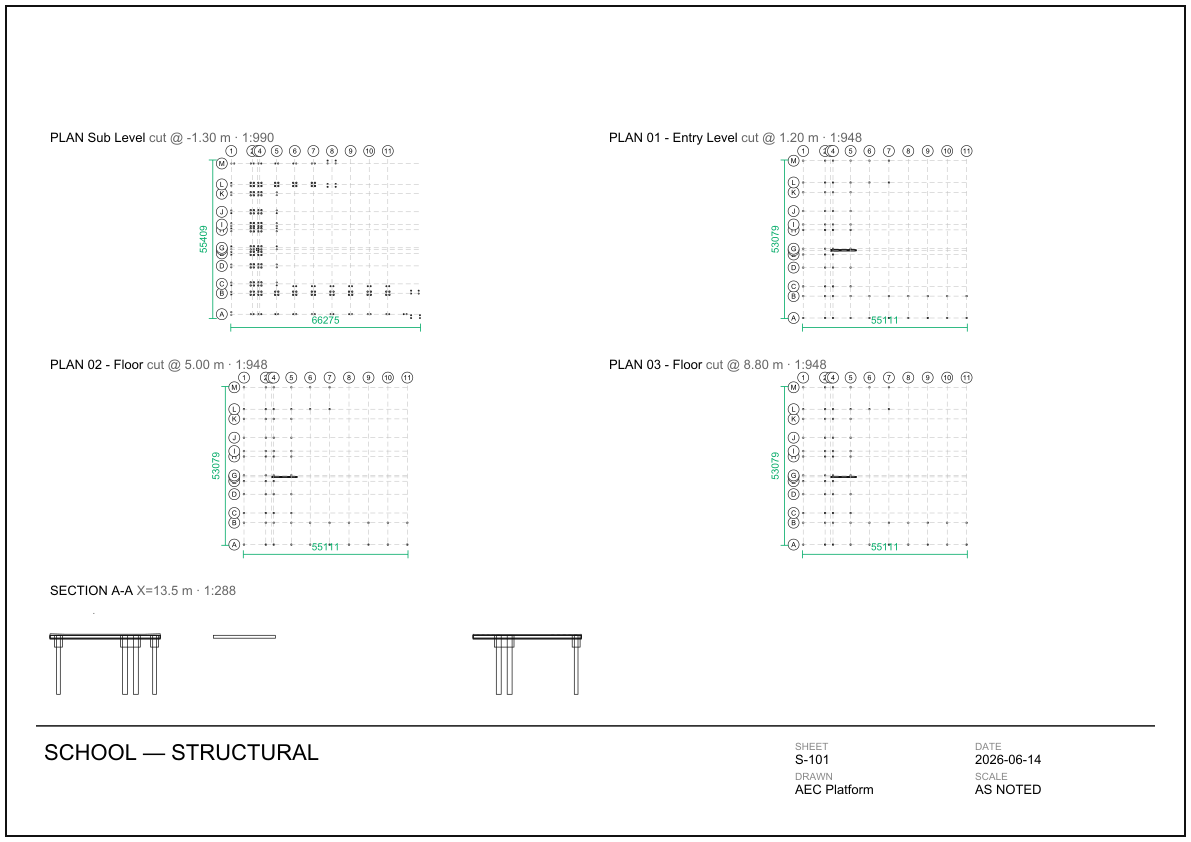
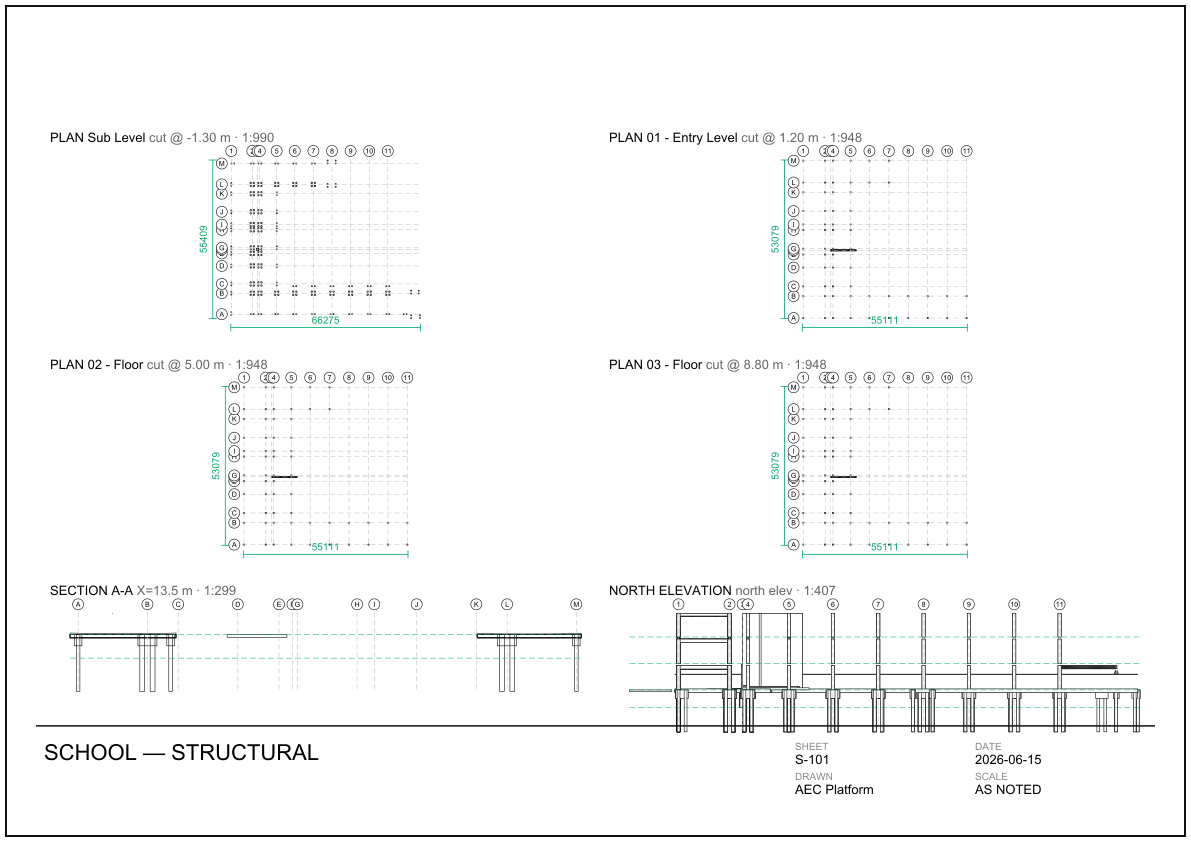
Annotate section & elevation sheet cells; elevations on composed sheet
- drawings.py: compose() now annotates every cell — plan cells get grid+dims,
  section/elevation cells get grid bubbles (lettered/numbered as appropriate) +
  storey level datums via _vertical_extras; elevation cells render filled (HLR).
  _view_for_spec supports kind="elevation"; default_sheet adds a north elevation;
  levels threaded into compose. SVG + PDF renderers handle filled polys + level lines.
- docs/img/sheet.png regenerated (fully-annotated A3); capability-matrix updated.

Verified: A3 sheet — 4 plans (grid+dims) + Section A-A (grid+levels) + North
Elevation (grid+levels+HLR) + title block; SVG + PDF (344 KB) valid.

diff --git a/services/data/src/aec_data/drawings.py b/services/data/src/aec_data/drawings.py
@@ -391,9 +391,42 @@ def _view_for_spec(meshes, spec: dict) -> tuple[list[np.ndarray], str, str]:
         off = float(spec.get("offset", 0.0))
         polys = cut_baked(meshes, "section-x" if axis == "x" else "section-y", off)
         return polys, spec.get("title", f"SECTION {axis.upper()}"), f"{axis.upper()}={off:.1f} m"
+    if kind == "elevation":
+        d = spec.get("direction", "north")
+        items = elevation_outlines(meshes, d, with_depth=True)
+        items.sort(key=lambda it: it[1])  # far→near for hidden-line removal
+        return [c for c, _ in items], spec.get("title", f"{d.upper()} ELEVATION"), f"{d} elev"
     elev = float(spec.get("elevation", 0.0)) + float(spec.get("cut_height", 1.2))
     polys = cut_baked(meshes, "plan", elev)
     return polys, spec.get("title", "PLAN"), f"cut @ {elev:.2f} m"
+
+
+def _vertical_extras(spec, grid, levels, mn, mx, ox, oy, dh, scale):
+    """Grid verticals + bubbles + storey level datums for a section/elevation cell."""
+    extras = []
+    spanx = (mx[0] - mn[0]) * scale
+    kind = spec.get("kind")
+    # which world grid maps to the cell's horizontal axis, and any horizontal flip
+    if kind == "section":
+        glines = grid["y"] if spec.get("axis", "x") == "x" else grid["x"]
+        flip = False
+    else:  # elevation
+        _, flip, depth_axis, _ = _DIRS.get(spec.get("direction", "north"), _DIRS["north"])
+        glines = grid["x"] if depth_axis == 1 else grid["y"]
+    for g, lbl in glines:
+        h = -g if flip else g
+        if not (mn[0] - 0.5 <= h <= mx[0] + 0.5):
+            continue
+        px = ox + (h - mn[0]) * scale
+        extras.append(("line", px, oy - 9, px, oy + dh, True))
+        extras.append(("bub", px, oy - 9, 5.5, lbl))
+    for lv in levels:  # storey datums (Z → vertical axis)
+        z = lv["elevation"]
+        if not (mn[1] - 0.1 <= z <= mx[1] + 0.1):
+            continue
+        py = oy + dh - (z - mn[1]) * scale
+        extras.append(("lvl", ox, ox + spanx, py))
+    return extras
 
 
 def _plan_extras(grid, mn, mx, ox, oy, dh, scale):
@@ -419,7 +452,8 @@ def _plan_extras(grid, mn, mx, ox, oy, dh, scale):
 
 
 def compose(meshes, specs: list[dict], page: str = "A3", cols: int = 2,
-            margin: float = 36.0, tb_h: float = 90.0, annotate: bool = True) -> dict:
+            margin: float = 36.0, tb_h: float = 90.0, annotate: bool = True,
+            levels: list[dict] | None = None) -> dict:
     pw, ph = PAGES.get(page, PAGES["A3"])
     rows = max(1, -(-len(specs) // cols))
     area_x0, area_y0 = margin, margin
@@ -428,15 +462,16 @@ def compose(meshes, specs: list[dict], page: str = "A3", cols: int = 2,
     cell_w, cell_h = area_w / cols, area_h / rows
     pad, label_h, gut = 14.0, 20.0, 20.0
     grid = grid_from_meshes(meshes) if annotate else {"x": [], "y": []}
+    levels = levels or []
 
     views = []
     for i, spec in enumerate(specs):
         polys, label, sub = _view_for_spec(meshes, spec)
-        is_plan = spec.get("kind", "plan") == "plan"
+        kind = spec.get("kind", "plan")
         col, row = i % cols, i // cols
         cx = area_x0 + col * cell_w
         cy = area_y0 + tb_h + row * cell_h  # y-down (top-left origin)
-        g = gut if (is_plan and annotate) else 0.0
+        g = gut if annotate else 0.0
         iw, ih = cell_w - 2 * pad - g, cell_h - 2 * pad - label_h - g
         scale_text = "no geometry"
         placed: list[np.ndarray] = []
@@ -456,9 +491,13 @@ def compose(meshes, specs: list[dict], page: str = "A3", cols: int = 2,
                 placed.append(pts)
             ratio = round(1.0 / (scale * 0.000352778))
             scale_text = f"1:{ratio}"
-            if is_plan and annotate:
-                extras = _plan_extras(grid, mn, mx, ox, oy, dh, scale)
-        views.append({"label": label, "sub": sub, "scale_text": scale_text,
+            if annotate:
+                if kind == "plan":
+                    extras = _plan_extras(grid, mn, mx, ox, oy, dh, scale)
+                else:  # section / elevation
+                    extras = _vertical_extras(spec, grid, levels, mn, mx, ox, oy, dh, scale)
+        views.append({"label": label, "sub": sub, "scale_text": scale_text, "kind": kind,
+                      "filled": kind == "elevation",
                       "rect": (cx, cy, cell_w, cell_h), "polys": placed, "extras": extras})
     return {"page": (pw, ph), "tb_h": tb_h, "margin": margin, "views": views}
 
@@ -475,12 +514,19 @@ def render_sheet_svg(layout: dict, meta: dict) -> str:
         out.append(f'<text x="{x+14:.0f}" y="{y+16:.0f}" font-family="sans-serif" '
                    f'font-size="13" font-weight="700">{v["label"]}  <tspan fill="#666" '
                    f'font-weight="400">{v["sub"]}  ·  {v["scale_text"]}</tspan></text>')
+        # elevation cells use opaque white fill (hidden-line removal); others stroke-only
+        shape = "polygon" if v.get("filled") else "polyline"
+        fill = "#fff" if v.get("filled") else "none"
         for poly in v["polys"]:
             pts = " ".join(f"{p[0]:.1f},{p[1]:.1f}" for p in poly)
-            out.append(f'<polyline points="{pts}" fill="none" stroke="#111" stroke-width="0.7"/>')
-        # grid / dimension annotations
+            out.append(f'<{shape} points="{pts}" fill="{fill}" stroke="#111" stroke-width="0.6"/>')
+        # grid / dimension / level annotations
         for e in v.get("extras", []):
-            if e[0] == "line":
+            if e[0] == "lvl":
+                _, x1, x2, yy = e
+                out.append(f'<line x1="{x1:.1f}" y1="{yy:.1f}" x2="{x2:.1f}" y2="{yy:.1f}" '
+                           f'stroke="#0a6" stroke-width="0.5" stroke-dasharray="6 3"/>')
+            elif e[0] == "line":
                 _, x1, y1, x2, y2, dash = e
                 da = ' stroke-dasharray="5 3"' if dash else ""
                 out.append(f'<line x1="{x1:.1f}" y1="{y1:.1f}" x2="{x2:.1f}" y2="{y2:.1f}" '
@@ -535,16 +581,27 @@ def render_sheet_pdf(layout: dict, meta: dict) -> bytes:
         c.setFont("Helvetica", 9); c.setFillGray(0.4)
         c.drawString(x + 14 + 9 * len(v["label"]), fy(y + 16), f"  {v['sub']}  ·  {v['scale_text']}")
         c.setFillGray(0)
-        c.setLineWidth(0.7)
+        c.setLineWidth(0.6)
+        filled = v.get("filled")
         for poly in v["polys"]:
             p = c.beginPath()
             p.moveTo(poly[0][0], fy(poly[0][1]))
             for pt in poly[1:]:
                 p.lineTo(pt[0], fy(pt[1]))
-            c.drawPath(p)
-        # grid / dimension annotations
+            if filled:
+                p.close()
+                c.saveState(); c.setFillGray(1)
+                c.drawPath(p, stroke=1, fill=1)  # opaque white fill = hidden-line removal
+                c.restoreState()
+            else:
+                c.drawPath(p)
+        # grid / dimension / level annotations
         for e in v.get("extras", []):
-            if e[0] == "line":
+            if e[0] == "lvl":
+                _, x1, x2, yy = e
+                c.saveState(); c.setStrokeColorRGB(0, 0.6, 0.4); c.setLineWidth(0.5); c.setDash(6, 3)
+                c.line(x1, fy(yy), x2, fy(yy)); c.restoreState()
+            elif e[0] == "line":
                 _, x1, y1, x2, y2, dash = e
                 c.saveState(); c.setStrokeGray(0.73); c.setLineWidth(0.5)
                 if dash:
@@ -583,7 +640,7 @@ def render_sheet_pdf(layout: dict, meta: dict) -> bytes:
 
 def sheet(model: ifcopenshell.file, specs: list[dict], meta: dict,
           page: str = "A3", cols: int = 2, fmt: str = "svg"):
-    layout = compose(bake(model), specs, page=page, cols=cols)
+    layout = compose(bake(model), specs, page=page, cols=cols, levels=storey_elevations(model))
     return render_sheet_pdf(layout, meta) if fmt == "pdf" else render_sheet_svg(layout, meta)
 
 
@@ -604,6 +661,7 @@ def default_sheet(model: ifcopenshell.file, meta: dict, page: str = "A3", fmt: s
     specs = [{"kind": "plan", "elevation": s["elevation"], "title": f"PLAN {s['name']}"}
              for s in storeys if s["elevation"] < top - 0.01]
     specs.append({"kind": "section", "axis": "x", "offset": mid_x, "title": "SECTION A-A"})
+    specs.append({"kind": "elevation", "direction": "north", "title": "NORTH ELEVATION"})
 
-    layout = compose(meshes, specs, page=page, cols=2)
+    layout = compose(meshes, specs, page=page, cols=2, levels=storeys)
     return render_sheet_pdf(layout, meta) if fmt == "pdf" else render_sheet_svg(layout, meta)

diff --git a/docs/capability-matrix.md b/docs/capability-matrix.md
@@ -72,7 +72,7 @@ real structural + architectural discipline frags loaded together. `POST /project
   (opaque silhouettes; nearer occludes farther) + grid bubbles + level datums.
 - **Room tags / leaders**: needs `IfcSpace` (architectural model; only its `.frag` is published
   for this sample, not the IFC) — wire once an arch IFC is available.
-- **Grid on section/elevation *sheet cells***: standalone elevations/sections are annotated;
-  composed-sheet cells carry grid on plan cells so far.
+- ~~Grid on section/elevation sheet cells~~ ✅ done — composed-sheet cells are all annotated:
+  plans (grid + dims), sections (grid + level datums), elevations (grid + levels + HLR).
 - **Federation UI**: a discipline picker to load several `.frag` and toggle by model.
 - **Authoring in-browser**: stays a Bonsai-bridge concern by design (GPL boundary).